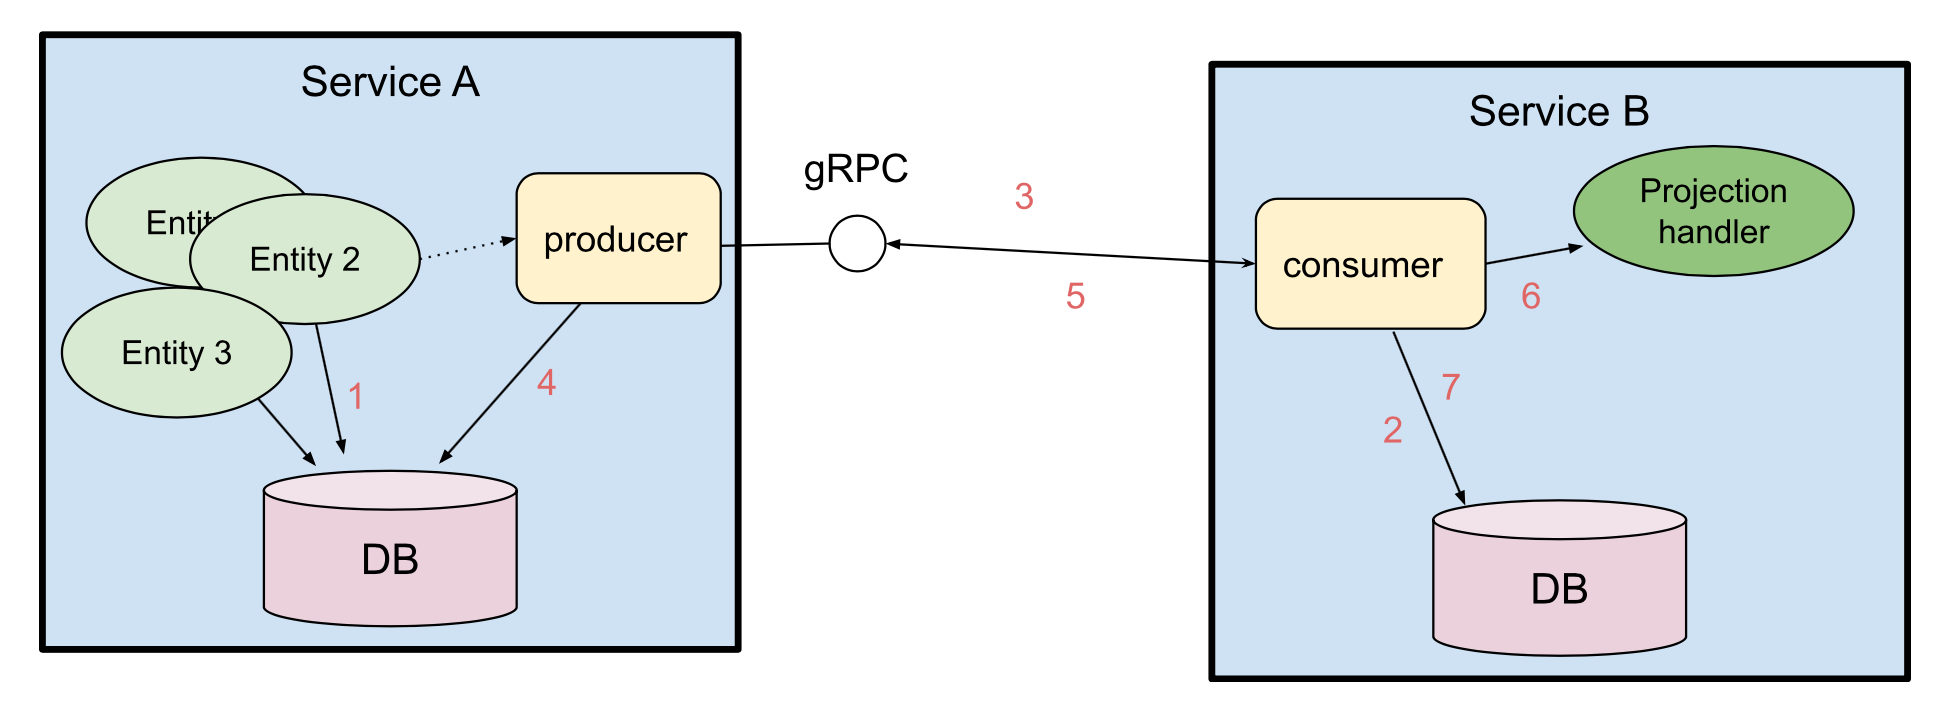
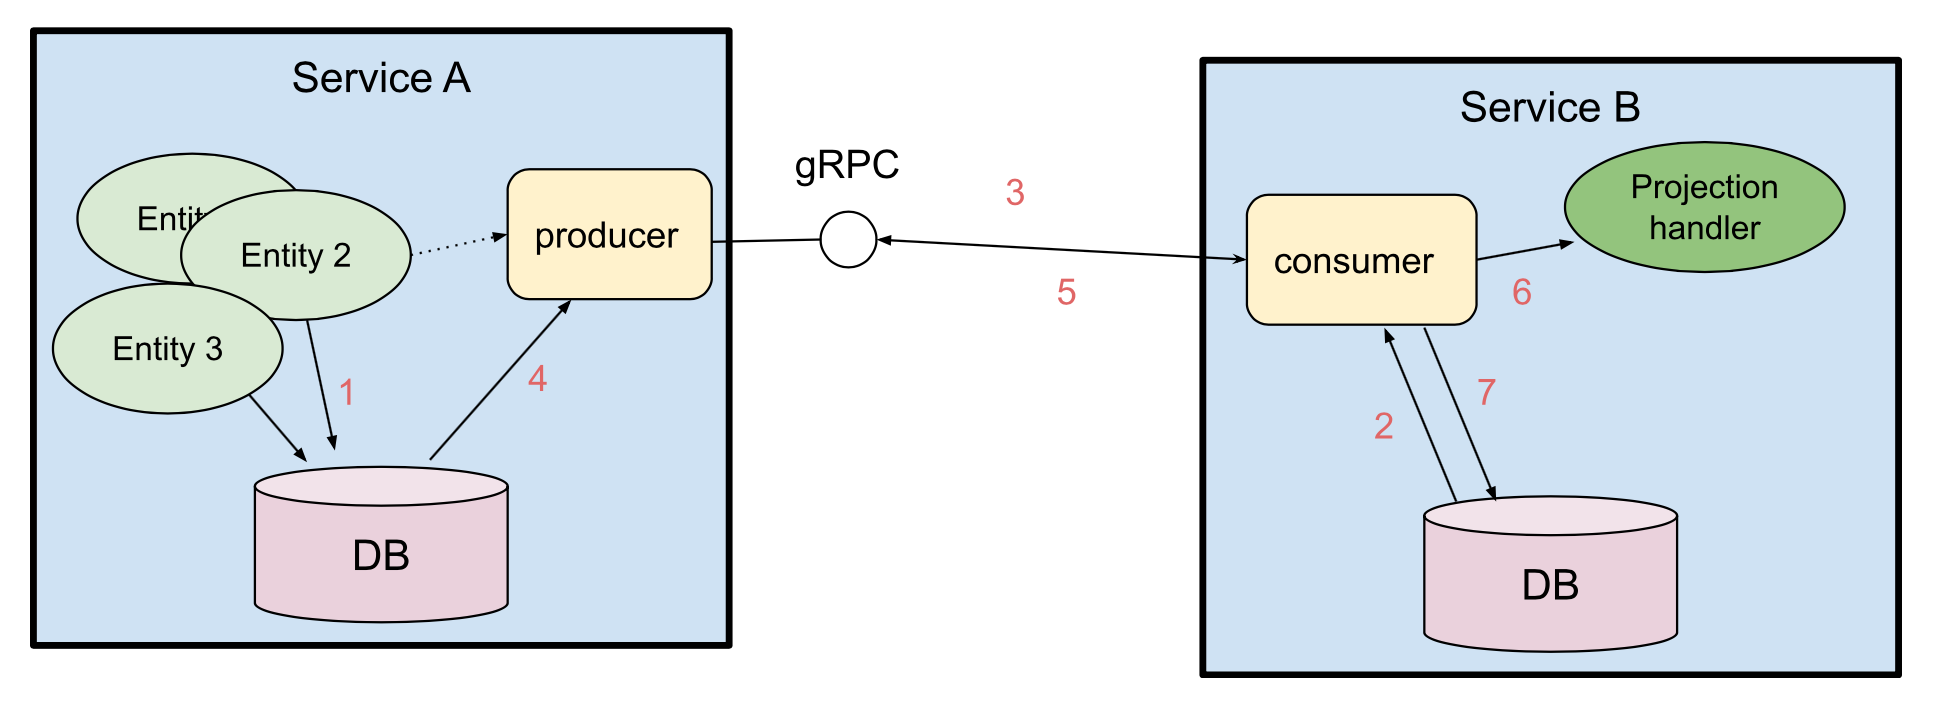
chore: Update overview
* switching direction on some of the arrows

diff --git a/akka-projection-grpc/docs/src/main/paradox/index.md b/akka-projection-grpc/docs/src/main/paradox/index.md
@@ -8,7 +8,7 @@ It provides an implementation of an @extref:[Akka Projection](akka-projection:in
 
 ![overview.png](images/overview.png)
 
-1. Entity stores events in its journal in service A.
+1. An Entity stores events in its journal in service A.
 1. Consumer in service B starts an Akka Projection which locally reads its offset for service A's replication stream.
 1. Service B establishes a replication stream from service A.
 1. Events are read from the journal.
